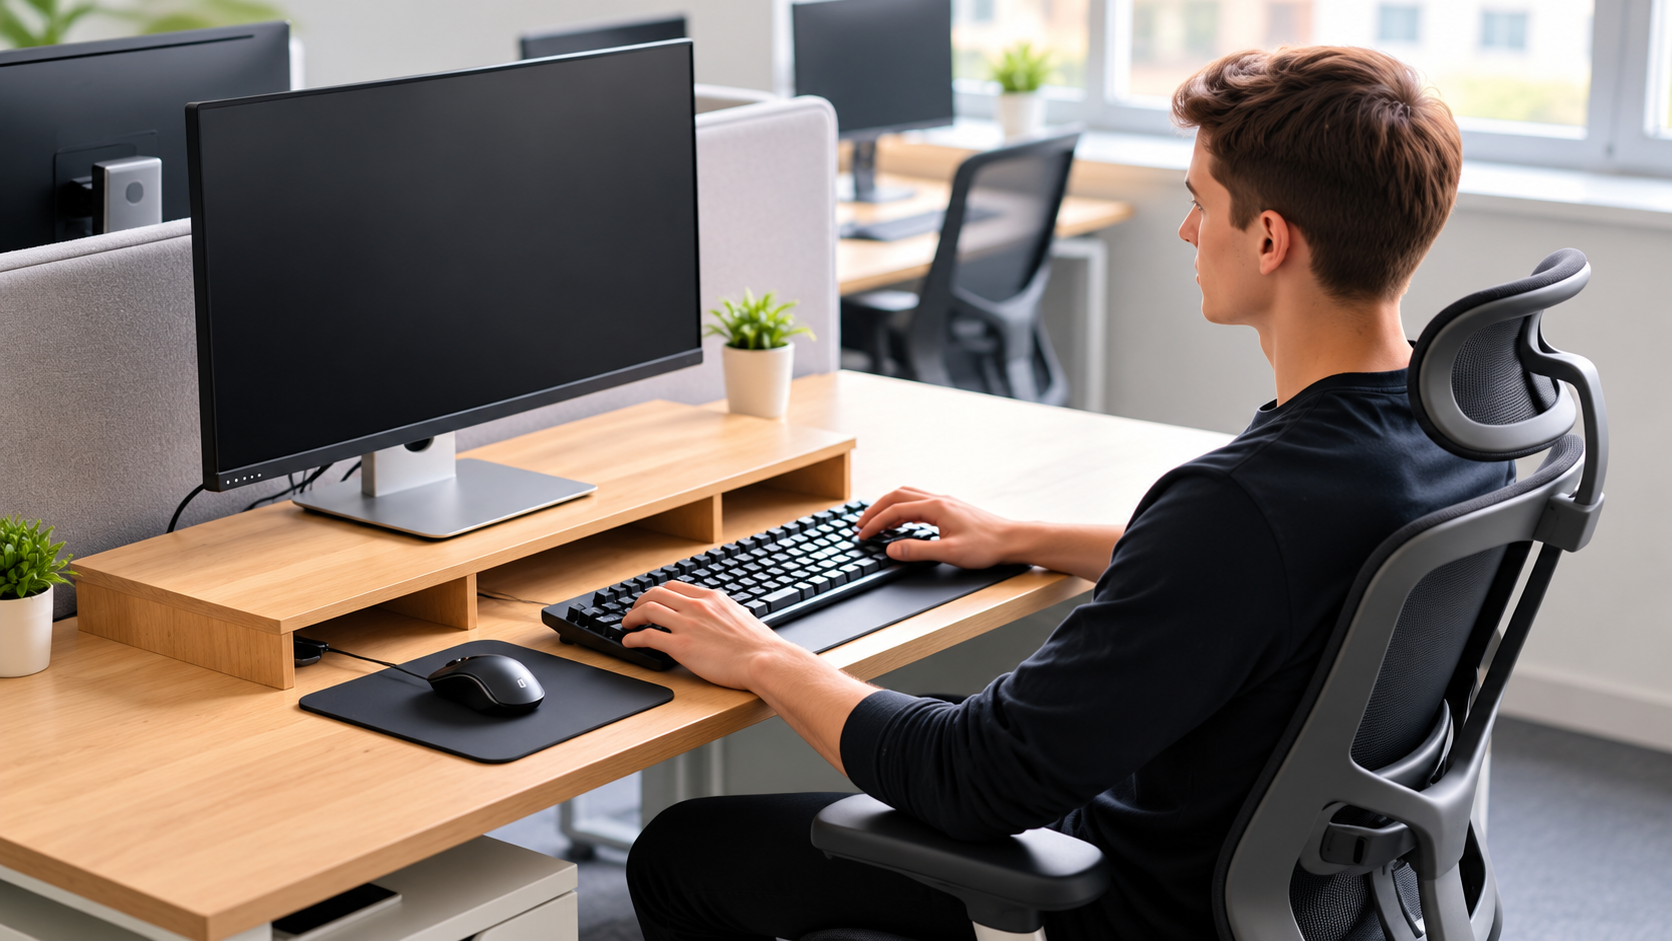
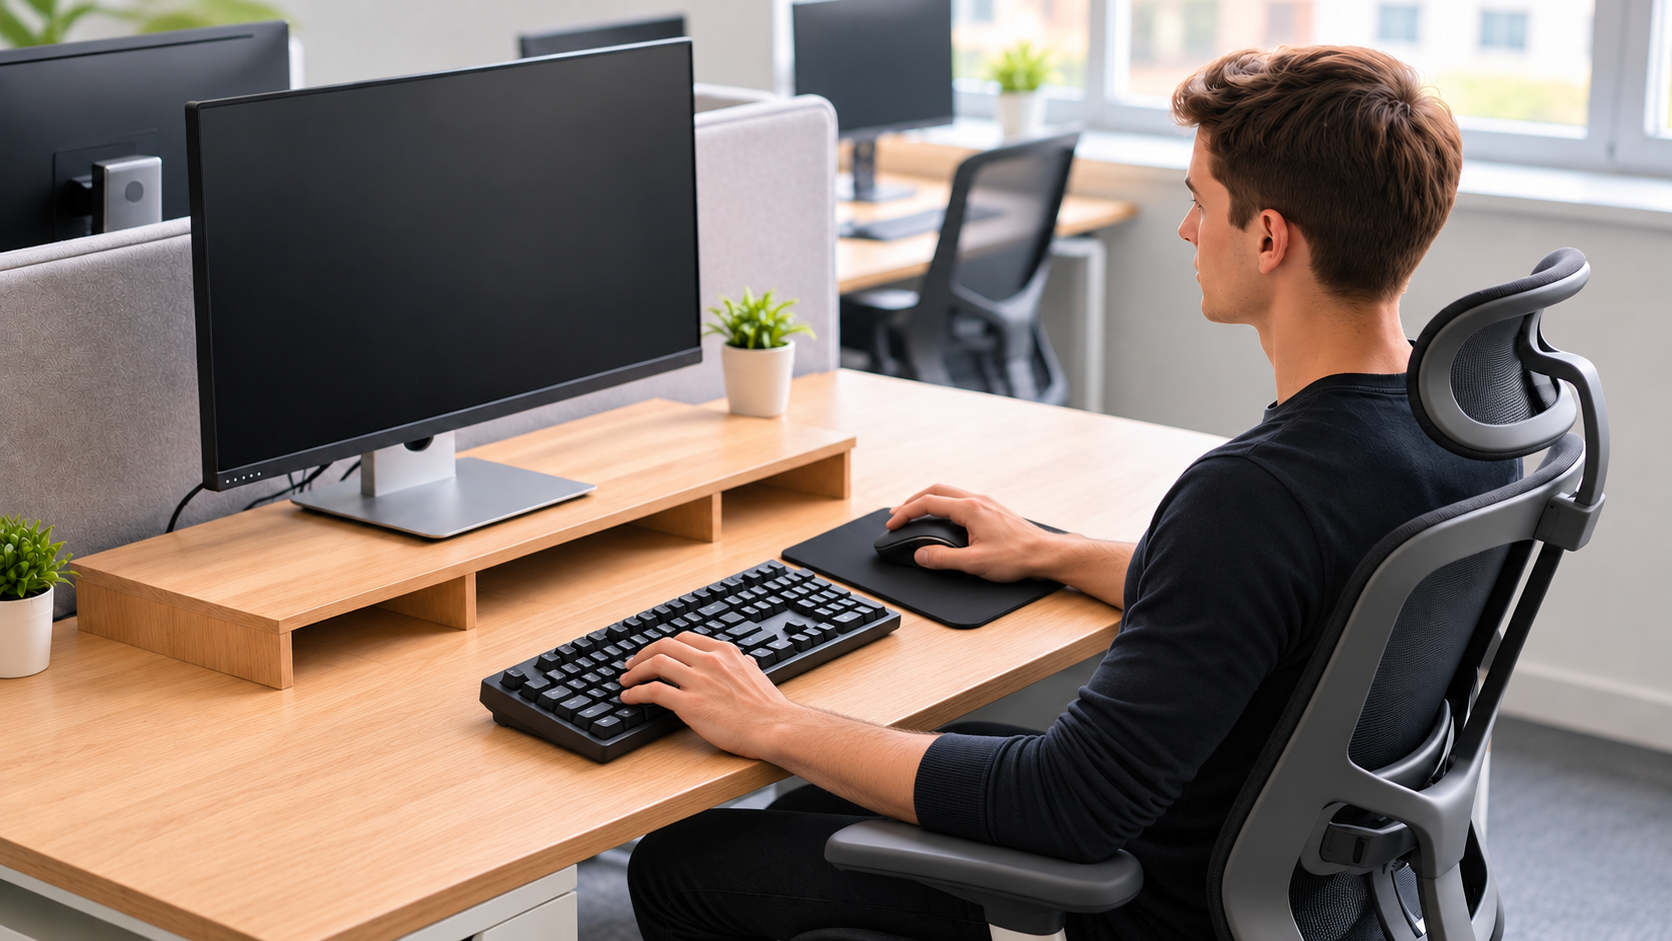
feat: add centralized routing constants and hero background asset

diff --git a/src/app/rutas/rutas.ts b/src/app/rutas/rutas.ts
@@ -10,7 +10,7 @@ export const RUTAS = {
   aulaCurso: '/cursos/:uuid/aula',
   publicaciones: '/publicaciones',
   publicacionDetalle: '/publicaciones/:slug',
-  acercaDe: '/acerca-de',
+  // acercaDe: '/acerca-de',
   contactanos: '/contactanos',
   carrito: '/carrito',
   perfil: '/perfil',
@@ -42,6 +42,6 @@ export const NAVEGACION_PRINCIPAL: EnlaceNavegacion[] = [
   { id: 'productos', etiqueta: 'PRODUCTOS', ruta: RUTAS.productos },
   { id: 'cursos', etiqueta: 'CURSOS', ruta: RUTAS.cursos },
   { id: 'publicaciones', etiqueta: 'PUBLICACIONES', ruta: RUTAS.publicaciones },
-  { id: 'acerca-de', etiqueta: 'ACERCA DE', ruta: RUTAS.acercaDe },
+  // { id: 'acerca-de', etiqueta: 'ACERCA DE', ruta: RUTAS.acercaDe },
   { id: 'contactanos', etiqueta: 'CONTACTANOS', ruta: RUTAS.contactanos },
 ];
